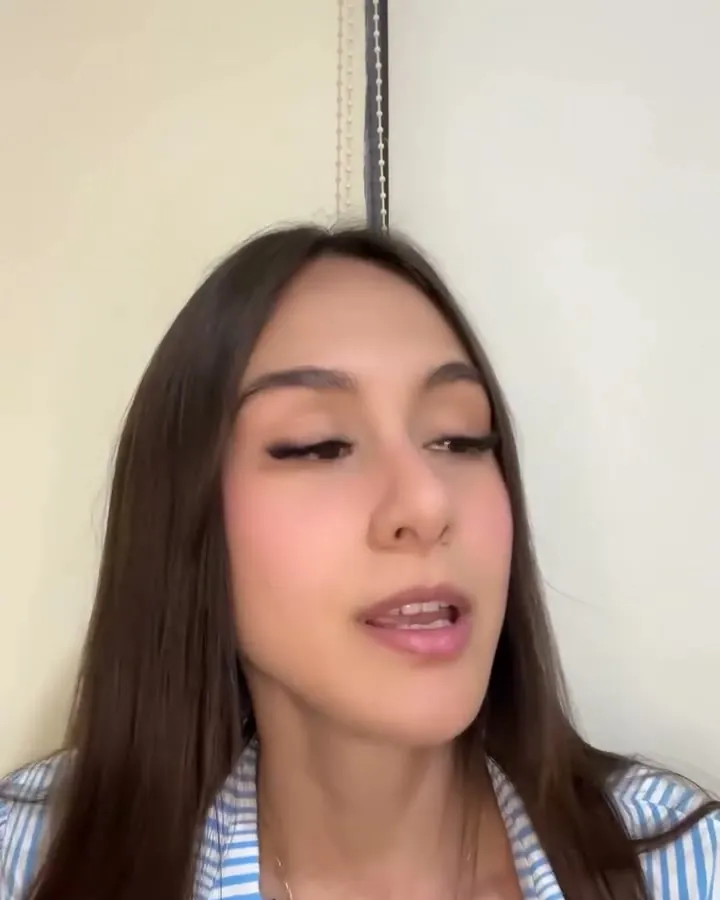
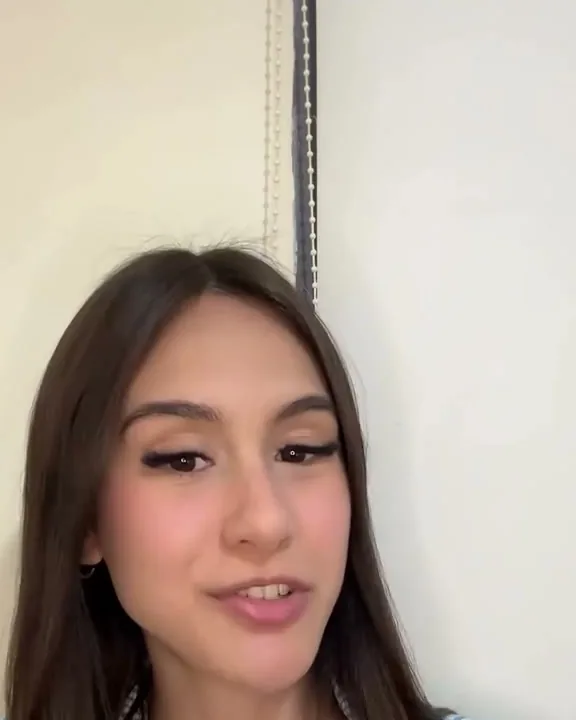
Celular: abertura com faixas de olhos, resultados recortados nos olhos, foto nova da Vitória

diff --git a/index.html b/index.html
@@ -15,8 +15,8 @@
 <link rel="preconnect" href="https://cdn.fontshare.com" crossorigin>
 <link href="https://api.fontshare.com/v2/css?f[]=cabinet-grotesk@400,500,800&display=swap" rel="stylesheet">
 <link rel="preload" as="image" href="media/hero-1.webp" media="(min-width: 700px)">
-<link rel="preload" as="image" href="media/hero-1-m.webp" media="(max-width: 699px)">
-<link rel="stylesheet" href="style.css?v=1">
+<link rel="preload" as="image" href="media/olho-1.webp?v=2" media="(max-width: 699px)">
+<link rel="stylesheet" href="style.css?v=4">
 <script>document.documentElement.classList.add('js')</script>
 </head>
 <body>
@@ -51,21 +51,22 @@
   <section class="hero" aria-label="Abertura">
     <div class="hero__media" aria-hidden="true">
       <picture class="hero__frame is-on">
-        <source media="(max-width: 699px)" srcset="media/hero-1-m.webp">
         <img src="media/hero-1.webp" alt="" width="1920" height="1080" fetchpriority="high">
       </picture>
       <picture class="hero__frame">
-        <source media="(max-width: 699px)" srcset="media/hero-2-m.webp">
         <img src="media/hero-2.webp" alt="" width="1912" height="1075" loading="lazy">
       </picture>
       <picture class="hero__frame">
-        <source media="(max-width: 699px)" srcset="media/hero-3-m.webp">
         <img src="media/hero-3.webp" alt="" width="1920" height="1080" loading="lazy">
       </picture>
       <picture class="hero__frame">
-        <source media="(max-width: 699px)" srcset="media/hero-4-m.webp">
         <img src="media/hero-4.webp" alt="" width="1920" height="1080" loading="lazy">
       </picture>
+    </div>
+    <div class="hero__strips" aria-hidden="true">
+      <img src="media/olho-1.webp?v=2" alt="" width="800" height="333">
+      <img src="media/olho-2.webp" alt="" width="1056" height="440">
+      <img src="media/olho-3.webp" alt="" width="960" height="400">
     </div>
     <div class="hero__scrim" aria-hidden="true"></div>
     <div class="hero__foot">
@@ -80,23 +81,23 @@
     <h2 class="show__title rv" id="show-t">Olhares que ela fez</h2>
     <div class="band">
       <figure class="band__panel rv-img" style="--g:5">
-        <img src="media/fox.webp" alt="Cliente com extensão de cílios efeito fox eyes, olhar alongado e puxado para cima" width="669" height="1079" loading="lazy">
-        <figcaption class="band__title">Fox eyes,<br>o olhar puxado</figcaption>
+        <img src="media/fox-m.webp" alt="Cliente com extensão de cílios efeito fox eyes, olhar alongado e puxado para cima" width="1056" height="587" loading="lazy">
+        <figcaption class="band__title">Fox eyes, <br>o olhar puxado</figcaption>
       </figure>
       <figure class="band__panel rv-img" style="--g:2">
-        <img src="media/brasileiro.webp" alt="Cliente com volume brasileiro, cílios preenchidos e leves" width="667" height="1076" loading="lazy">
+        <img src="media/brasileiro-m.webp" alt="Cliente com volume brasileiro, cílios preenchidos e leves" width="1048" height="582" loading="lazy">
         <figcaption class="band__tag">Volume brasileiro</figcaption>
       </figure>
       <figure class="band__panel rv-img" style="--g:3">
-        <img src="media/egipcio.webp" alt="Close de olhos com volume egípcio, fio 5W" width="669" height="1079" loading="lazy">
+        <img src="media/egipcio-m.webp" alt="Close de olhos com volume egípcio, fio 5W" width="793" height="441" loading="lazy">
         <figcaption class="band__tag">Volume egípcio</figcaption>
       </figure>
       <figure class="band__panel rv-img" style="--g:2">
-        <img src="media/marrom.webp" alt="Cliente com volume brasileiro feito com fio marrom" width="669" height="1079" loading="lazy">
+        <img src="media/marrom-m.webp" alt="Cliente com volume brasileiro feito com fio marrom" width="827" height="459" loading="lazy">
         <figcaption class="band__tag">Brasileiro marrom</figcaption>
       </figure>
     </div>
-    <p class="show__cap rv">Fotos de clientes reais, tiradas logo depois do atendimento. Passe o mouse para abrir cada olhar.</p>
+    <p class="show__cap rv">Fotos de clientes reais, tiradas logo depois do atendimento.</p>
   </section>
 
   <!-- MAPA (parte viva) -->
@@ -148,10 +149,10 @@
 
   <!-- TÉCNICAS -->
   <section class="tec" id="tecnicas" aria-labelledby="tec-t">
-    <h2 class="tec__title rv" id="tec-t">Bordado fio a fio,<br>uma extensão por cílio</h2>
+    <h2 class="tec__title rv" id="tec-t">Bordado fio a fio, <br>uma extensão por cílio</h2>
     <div class="tec__grid">
       <figure class="tec__photo rv-img">
-        <img src="media/vitoria-4x5.webp" alt="Vitória Bordin explicando as técnicas de extensão de cílios" width="720" height="900" loading="lazy">
+        <img src="media/vitoria-4x5.webp?v=2" alt="Vitória Bordin explicando as técnicas de extensão de cílios" width="576" height="720" loading="lazy">
       </figure>
       <p class="tec__word rv">Técnicas</p>
       <ul class="tec__table">
@@ -260,6 +261,6 @@
   <span>Agendar</span>
 </a>
 
-<script src="main.js?v=1" defer></script>
+<script src="main.js?v=2" defer></script>
 </body>
 </html>

diff --git a/style.css b/style.css
@@ -103,20 +103,20 @@ ul { padding: 0; list-style: none; }
 }
 .fit { display: inline-block; white-space: nowrap; vertical-align: top; letter-spacing: -0.045em; }
 
+.hero__strips { display: none; }
+.band__panel picture { display: block; width: 100%; height: 100%; }
+
 /* resultados */
 .show { padding: var(--sec) 0 0; }
 .show__title { font-size: var(--step-head); font-weight: 800; letter-spacing: -0.035em; line-height: .95; padding: 0 var(--m) 64px calc(var(--m) + (100vw - 2 * var(--m)) * 2 / 12); }
-.band { display: flex; height: 76svh; min-height: 460px; }
-.band__panel { position: relative; flex: var(--g) 1 0; overflow: hidden; transition: flex-grow .5s var(--ease); background: var(--surface); }
+.band { display: grid; grid-template-columns: minmax(0, 1fr) minmax(0, 1fr); gap: 4px; }
+.band__panel { position: relative; aspect-ratio: 9 / 5; overflow: hidden; background: var(--surface); }
 .band__panel img { width: 100%; height: 100%; object-fit: cover; }
 .band__title, .band__tag { position: absolute; left: 24px; color: var(--ink); }
-.band__title { top: 22px; font-size: var(--step-lead); font-weight: 800; letter-spacing: -0.025em; line-height: 1.02; }
+.band__title { bottom: 20px; font-size: var(--step-lead); font-weight: 800; letter-spacing: -0.025em; line-height: 1.02; }
 .band__tag { bottom: 20px; font-size: var(--step-body); font-weight: 500; }
-.band__panel::before { content: ""; position: absolute; inset: 0; pointer-events: none; /* taste-skill-ignore: scrim neutro sobre foto */ background: linear-gradient(to bottom, rgba(13, 6, 11, .45), rgba(13, 6, 11, 0) 30%, rgba(13, 6, 11, 0) 72%, rgba(13, 6, 11, .5)); z-index: 1; }
+.band__panel::before { content: ""; position: absolute; inset: 0; pointer-events: none; /* taste-skill-ignore: scrim neutro sobre foto */ background: linear-gradient(to top, rgba(13, 6, 11, .6), rgba(13, 6, 11, 0) 40%); z-index: 1; }
 .band__panel figcaption { z-index: 2; }
-@media (hover: hover) and (min-width: 900px) {
-  .band__panel:hover { flex-grow: 6; }
-}
 .show__cap { padding: 18px var(--m) 0; color: var(--muted); font-size: var(--step-body); }
 
 /* mapa (parte viva) */
@@ -316,19 +316,21 @@ ul { padding: 0; list-style: none; }
   .hero__foot { grid-template-columns: minmax(0, 1fr); }
   .hero__lead { font-size: 1.125rem; max-width: 24ch; }
   .hero__name { margin-bottom: 18px; }
-  .hero__media { bottom: auto; height: min(140vw, 78svh); }
-  .hero__frame img { object-position: 50% 50%; }
-  .hero__scrim { height: 62%; background: linear-gradient(to top, #0d060b 52%, rgba(13, 6, 11, 0)); } /* taste-skill-ignore: scrim neutro sobre foto */
+  .hero { height: auto; min-height: 100svh; display: flex; flex-direction: column; justify-content: space-between; }
+  .hero::before { display: none; }
+  .hero__media, .hero__scrim { display: none; }
+  .hero__strips { display: grid; gap: 4px; padding-top: 72px; }
+  .hero__strips img { display: block; width: 100%; height: auto; aspect-ratio: 12 / 5; object-fit: cover; }
+  .hero__foot { position: relative; inset: auto; padding: 28px var(--m) 0; }
 
   .show__title { padding-left: var(--m); padding-bottom: 32px; font-size: 1.75rem; }
-  .band { flex-wrap: wrap; height: 88svh; min-height: 560px; }
-  .band__panel { height: 50%; flex: 0 0 auto; }
-  .band__panel:nth-child(1) { width: 64%; }
-  .band__panel:nth-child(2) { width: 36%; }
-  .band__panel:nth-child(3) { width: 36%; }
-  .band__panel:nth-child(4) { width: 64%; }
-  .band__title { left: 16px; top: 16px; font-size: 1.375rem; }
-  .band__tag { left: 16px; bottom: 14px; font-size: var(--step-small); }
+  .band { grid-template-columns: minmax(0, 1fr); }
+  .band__panel { height: auto; aspect-ratio: 9 / 5; }
+  .band__panel picture { display: block; height: 100%; }
+  .band__panel::before { background: linear-gradient(to top, rgba(13, 6, 11, .6), rgba(13, 6, 11, 0) 42%); } /* taste-skill-ignore: scrim neutro sobre foto */
+  .band__title, .band__tag { top: auto; left: 16px; bottom: 12px; font-size: 1.125rem; font-weight: 700; letter-spacing: -0.015em; }
+  .band__title br { display: none; }
+  .show__hover { display: none; }
 
   .mapa { padding: 80px var(--m); }
   .mapa__title { font-size: 2.25rem; }
